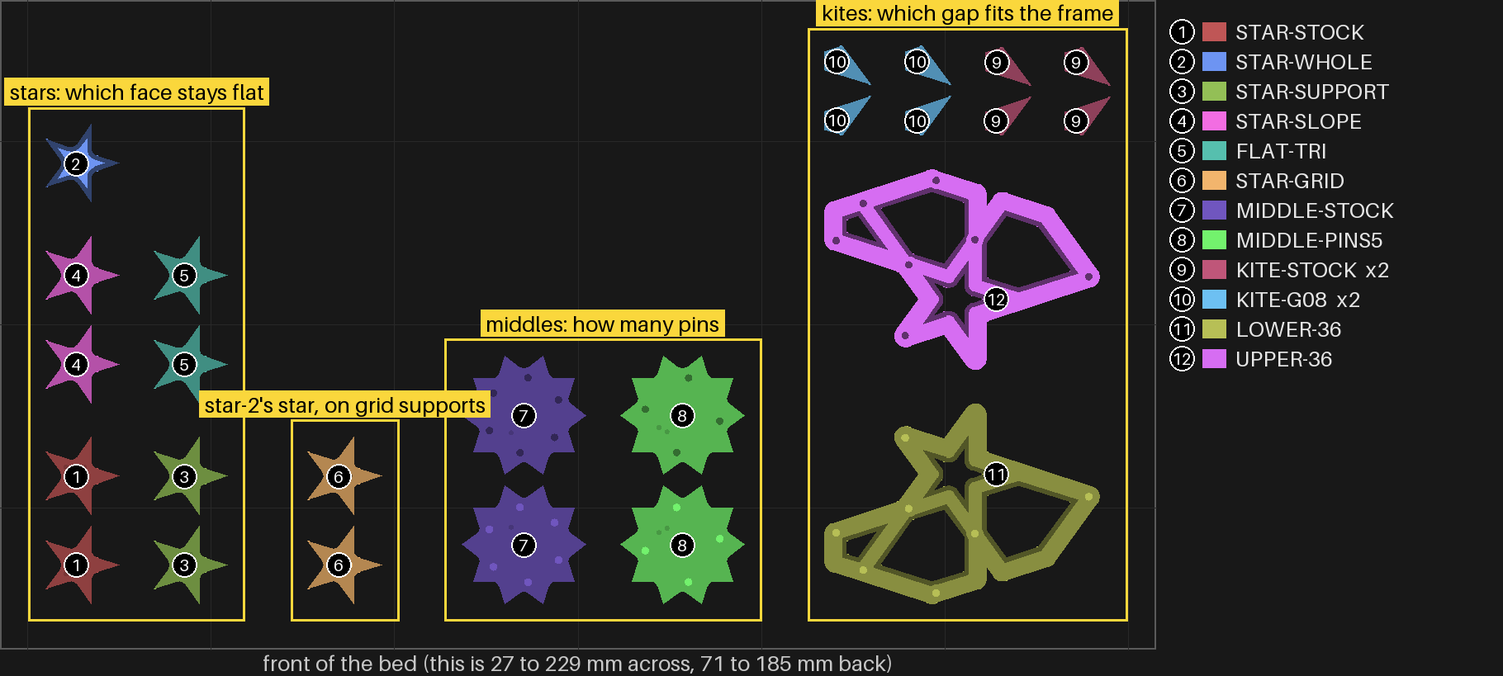
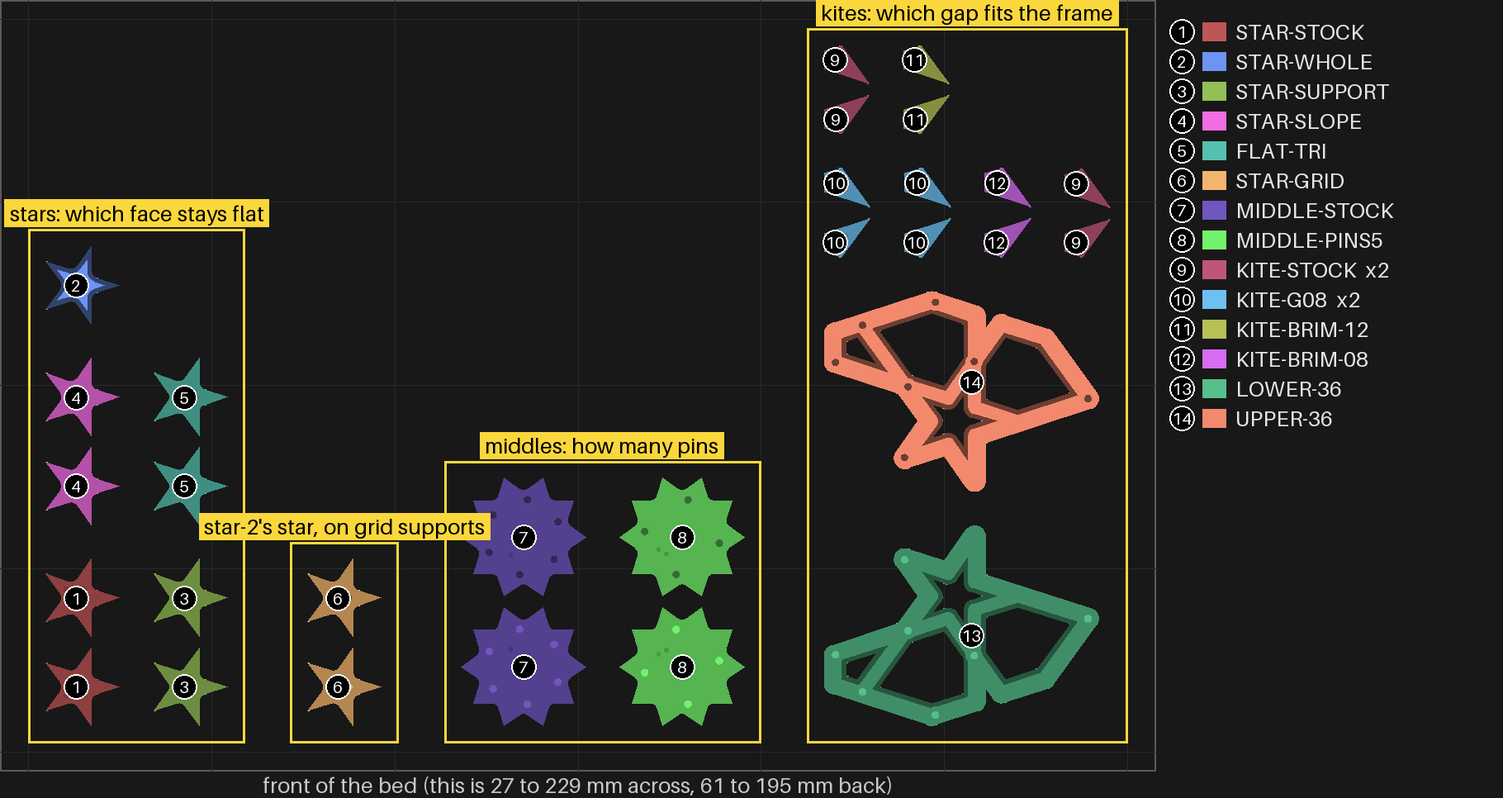
closeout-1 iteration 4: brim kites and a skirt round the whole plate (#897)
Omar asked "on small kite (10/11) can we try them with skirt and brim"
and picked brim kites with a skirt round the whole plate, one brim copy
of each gap.

- A plate recipe can now ask for a skirt (`skirt: { loops, distance }`).
  It is written into the process preset and drawn once round the whole
  plate; the preset read-back proves the slice carries it.
- Two new kites: KITE-BRIM-12 (gap 0.12, 1 dot on the bottom) and
  KITE-BRIM-08 (gap 0.08, 1 dot on the cut face and 1 on the bottom),
  each with a 2 mm brim, in the kites box.
- Sliced: 38 min 5 s, 7.57 g, 16 pieces, no warnings. The page has a new
  after-print row for the brim kites, and the iteration 3 yes is reset.

Claude-Session: https://claude.ai/code/session_01QQzzGV2CsqSYQs1WFuC7NE

Changed region(s): [[0.0, 0.0, 0.7692, 1.0], [0.7692, 0.0305, 0.9231, 0.5495]]

diff --git a/tools/bambu/src/commands/compose.ts b/tools/bambu/src/commands/compose.ts
@@ -41,7 +41,7 @@ import {
   hashFile,
   type WarningsSidecar,
 } from "../backends/warnings.js";
-import { prepareSlicePresets, enforceSliceCarriesPresets, buildStudioArgs, filamentCount } from "./slice.js";
+import { prepareSlicePresets, enforceSliceCarriesPresets, buildStudioArgs, filamentCount, type PlateSkirt } from "./slice.js";
 import { resolveSlicePlateType, studioSavedPlateType } from "../plate-type.js";
 import type { FlattenedPreset, SettingMismatch } from "../preset-chain.js";
 import { iterationId, type IterationKey } from "../iteration.js";
@@ -107,7 +107,27 @@ export interface PlateManifest {
   beds?: number; // the most beds the arrange may use (default 1); a spill past it is refused
   profile?: PlateProfile; // the ONE slice profile the plate is sliced under
   id_code?: string; // the plate's 1-3 character code, the first line of every piece's carved id (D-109)
+  // one skirt round the whole plate (slice.ts setSkirt); a skirt is plate-wide in Studio, never per piece
+  skirt?: PlateSkirt;
   items: ManifestItem[];
+}
+
+/** Check the manifest's `skirt:`: `loops` a whole number 1 to 5, `distance` mm from 1 to 10. PURE. */
+export function checkSkirt(raw: unknown): PlateSkirt {
+  if (!raw || typeof raw !== "object" || Array.isArray(raw)) {
+    throw new Error("`skirt:` must be a mapping: `loops:` (1 to 5) and, optionally, `distance:` (mm, 1 to 10)");
+  }
+  const s = raw as Record<string, unknown>;
+  for (const k of Object.keys(s)) {
+    if (k !== "loops" && k !== "distance") throw new Error(`\`skirt.${k}\` is not a skirt setting; it takes loops and distance`);
+  }
+  if (typeof s.loops !== "number" || !Number.isInteger(s.loops) || s.loops < 1 || s.loops > 5) {
+    throw new Error(`\`skirt.loops\` must be a whole number from 1 to 5, got ${JSON.stringify(s.loops)}`);
+  }
+  if (s.distance !== undefined && (typeof s.distance !== "number" || !(s.distance >= 1 && s.distance <= 10))) {
+    throw new Error(`\`skirt.distance\` must be mm from 1 to 10, got ${JSON.stringify(s.distance)}`);
+  }
+  return { loops: s.loops, ...(s.distance !== undefined ? { distance: s.distance as number } : {}) };
 }
 
 function isIterationItem(it: ManifestItem): it is ManifestItemIteration {
@@ -600,6 +620,7 @@ export function parseManifest(text: string): PlateManifest {
     beds: typeof m.beds === "number" ? m.beds : undefined,
     profile: (m.profile as PlateProfile) ?? undefined,
     ...(typeof m.id_code === "string" ? { id_code: m.id_code } : {}),
+    ...(m.skirt !== undefined ? { skirt: checkSkirt(m.skirt) } : {}),
     items: items as ManifestItem[],
   };
 }
@@ -1202,6 +1223,7 @@ async function runCompose(manifestPath: string, opts: ComposeOpts, raw: string[]
         mkdtempSync(join(tmpdir(), "bambu-presets-")),
         plate.type,
         manifest.profile?.color,
+        manifest.skirt,
       );
       settingsResolved = prepared.settings ?? settingsName;
       filamentResolved = prepared.filament ?? filamentName;

diff --git a/tools/bambu/src/commands/slice.ts b/tools/bambu/src/commands/slice.ts
@@ -136,6 +136,7 @@ export function prepareSlicePresets(
   scratchDir: string,
   plateType?: PlateType,
   filamentColor?: string | string[],
+  skirt?: PlateSkirt,
 ): PreparedPresets {
   const root = profilesRoot(studioBin);
   const lookup: PresetLookup = root ? studioPresetLookup(root) : () => null;
@@ -143,10 +144,13 @@ export function prepareSlicePresets(
   if (settings) {
     const flat = flattenPresetList(resolvePresetList(settings, "settings", studioBin), lookup, scratchDir);
     if (plateType) setPlateType(flat.presets, plateType, scratchDir);
+    if (skirt) setSkirt(flat.presets, skirt, scratchDir);
     out.settings = flat.list;
     out.presets.push(...flat.presets);
   } else if (plateType) {
     throw new Error("a plate type needs a process preset in -s/--settings to hold it.");
+  } else if (skirt) {
+    throw new Error("a skirt needs a process preset in -s/--settings to hold it.");
   }
   if (filament) {
     const flat = flattenPresetList(resolvePresetList(filament, "filament", studioBin), lookup, scratchDir);
@@ -175,6 +179,27 @@ export function setFilamentColor(presets: FlattenedPreset[], color: string | str
     p.config.filament_colour = [colors[i]!.toUpperCase()];
     writeFlattened(p, scratchDir);
   });
+}
+
+/** A skirt round the whole plate: `loops` lines `distance` mm out from the pieces, one layer high.
+ *  It never touches a piece, so it only primes the nozzle before the first piece starts. */
+export interface PlateSkirt {
+  loops: number; // 1 to 5
+  distance?: number; // mm from the nearest piece (default 2, Studio's own)
+}
+
+/** Write a whole-plate skirt into the one flattened process preset, like the plate type. Studio's stock
+ *  `skirt_per_object` is "1" (a skirt round each piece), so it is set to "0": one skirt round the plate.
+ *  The preset check after the slice proves the slice carries all three. Omar on closeout-1, 2026-11-05:
+ *  "on small kite (10/11) can we try them with skirt and brim", and he picked a whole-plate skirt. */
+export function setSkirt(presets: FlattenedPreset[], skirt: PlateSkirt, scratchDir: string): void {
+  const proc = presets.find((p) => p.type === "process");
+  if (!proc) throw new Error("a skirt needs a process preset in -s/--settings to hold it.");
+  proc.config.skirt_loops = String(skirt.loops);
+  proc.config.skirt_distance = String(skirt.distance ?? 2);
+  proc.config.skirt_height = "1";
+  proc.config.skirt_per_object = "0";
+  writeFlattened(proc, scratchDir);
 }
 
 /** Name the plate in the one flattened process preset and rewrite its file in place (same path, so

diff --git a/tools/bambu/src/plate-type.test.ts b/tools/bambu/src/plate-type.test.ts
@@ -14,7 +14,8 @@ import {
   resolveSlicePlateType,
   studioSavedPlateType,
 } from "./plate-type.js";
-import { setFilamentColor, setPlateType } from "./commands/slice.js";
+import { setFilamentColor, setPlateType, setSkirt } from "./commands/slice.js";
+import { checkSkirt } from "./commands/compose.js";
 import type { FlattenedPreset } from "./preset-chain.js";
 
 // The plate type is what sheets-04b got wrong (2026-10-03): sliced for Studio's CLI default, a Cool
@@ -166,6 +167,40 @@ describe("setPlateType", () => {
     expect(() => setPlateType([preset("machine")], textured, mkdtempSync(join(tmpdir(), "plate-type-")))).toThrow(
       /needs a process preset/,
     );
+  });
+});
+
+// A whole-plate skirt rides the same way (closeout-1, 2026-11-05). Studio's stock skirt_per_object is
+// "1", a skirt round every piece; the plate asked for one round the whole plate.
+describe("setSkirt", () => {
+  const preset = (type: string): FlattenedPreset => ({ leaf: `/p/${type}.json`, type, chain: [type], config: { name: type } });
+
+  it("writes one skirt round the whole plate into the process preset only, and onto its file", () => {
+    const dir = mkdtempSync(join(tmpdir(), "skirt-"));
+    const presets = [preset("machine"), preset("process"), preset("filament")];
+    setSkirt(presets, { loops: 2 }, dir);
+    expect(presets[1]!.config).toMatchObject({ skirt_loops: "2", skirt_distance: "2", skirt_height: "1", skirt_per_object: "0" });
+    expect(presets[0]!.config.skirt_loops).toBeUndefined();
+    expect(JSON.parse(readFileSync(join(dir, "process.json"), "utf8")).skirt_per_object).toBe("0");
+  });
+
+  it("refuses settings with no process preset to hold it", () => {
+    expect(() => setSkirt([preset("machine")], { loops: 1 }, mkdtempSync(join(tmpdir(), "skirt-")))).toThrow(/needs a process preset/);
+  });
+});
+
+describe("checkSkirt", () => {
+  it("takes loops 1 to 5 and a distance 1 to 10 mm", () => {
+    expect(checkSkirt({ loops: 2 })).toEqual({ loops: 2 });
+    expect(checkSkirt({ loops: 1, distance: 3 })).toEqual({ loops: 1, distance: 3 });
+  });
+
+  it("refuses no loops, too many, a stray key, or a distance out of range", () => {
+    expect(() => checkSkirt({ loops: 0 })).toThrow(/1 to 5/);
+    expect(() => checkSkirt({ loops: 6 })).toThrow(/1 to 5/);
+    expect(() => checkSkirt({ loops: 1, height: 2 })).toThrow(/not a skirt setting/);
+    expect(() => checkSkirt({ loops: 1, distance: 0.5 })).toThrow(/1 to 10/);
+    expect(() => checkSkirt("2")).toThrow(/must be a mapping/);
   });
 });
 

diff --git a/.claude/skills/maintain-use-cases/use-cases.md b/.claude/skills/maintain-use-cases/use-cases.md
@@ -2,7 +2,7 @@
 name: use-cases
 description: Actor / use-case map for the whole 3d-models experience, with hash-pinned code pointers validated by the pre-commit hook
 as_of:
-  3d-models: 5b628382ed6c496784e297e0adb208f60786b760
+  3d-models: 1aabf89d7010dcec0f63f735ec077b8a97594dc8
   bikar: 21420bc3ba9d9dd99ff186427f8c95f41d80f4f9
   qiyas: 74083326b6439e277ac7c57f0cfc28716b7ffbc2
   youtube: 7deb8abbf9e4196a4990a38961ddf08f816223a8
@@ -137,7 +137,7 @@ flowchart LR
 | UC30 | Tune a coaster's print knobs live in the Coaster Lab — size a rosette coaster for the printer in the room and watch all eight structural CV checks and the mesh gate re-run on every knob move, each verdict showing the number it measured against the strap floor (CAL-CST-01) it is held to, and take the STL only once every check is green. The coaster's knobs *are* its `.bkr` param block, so there is no page-side knob list to drift; a failing check reaches the page as the error the evaluator throws (`coaster … is not a valid part`), parsed into FAIL rows, not a silent skip. The hub stays the plate builder — this page configures and verifies one coaster and links back to it from the gallery. | Lab visitor, Print operator | `3d-models:index.html:L352 "coaster.html"` (the gallery's “Open in Coaster Lab” link — the hub's entry point to the vendored Lab page) · `3d-models:Makefile:L480 "LAB_PAGES ="` (vendors `coaster.html` beside the other lab pages via `lab-vendor`) · `3d-models:docs/site-graph.json:L139 "G.coaster"` (the vendored page node and its inbound edge from the gallery index) · `bikar:packages/lab/coaster.html` (the Coaster Lab page itself — a bikar `packages/lab` entry) · `bikar:packages/lab/src/coaster-main.ts` (its page controller, trimmed from `lego-main.ts`) |
 
 | UC31 | Look up what a print symptom means, and whether it is a concern for the part in front of you — an LLM-maintained troubleshooting wiki (the Karpathy LLM-wiki pattern: Raw Sources / Wiki / Schema, and Ingest / Query / Lint / Index & Log) whose entries each answer *what it means → is it a concern for THIS part → what to do*, grounded in our own slices and prints as proof rather than a bare claim. The wiki lives under `docs/`, so `docs_gate.py` lints every entry at commit; the skill Ingests a new gotcha when one is met and never changes a slicer setting or dispatches | Print operator, Designer | `3d-models:.claude/skills/print-wiki/SKILL.md:L1` (the skill — Query the front door, Ingest the back) · `3d-models:.claude/skills/print-wiki/template.md:L1` (the entry template every entry is filled from) · `3d-models:docs/wiki/index.md:L1` (the wiki index — one row per symptom) · `3d-models:docs/wiki/log.md:L1` (the append-only maintenance log, Karpathy op 4) · `3d-models:docs/wiki/troubleshooting/floating-regions-warning.md:L1` (a seed entry — the by-design overhang warning) · `3d-models:docs/wiki/troubleshooting/print-send-warnings-gate.md:L1` (a seed entry — why the fail-closed send gate refuses) · `3d-models:.claude/gates/docs_gate.py:L1` (the gate that lints every wiki entry, since it lives under docs/) |
-| UC32 | Judge a coaster's edge and top in the hand before printing it at full size — a sampler sheet stands 30 mm windows, cut from each coaster at its own 90 mm scale, on one labeled card, so a sample is the real edge and not a shrunk copy; `bambu slice sheet` renders each window through bikar's `--window` cut with the mesh gate, takes a vendored sample only when its sha256 still matches the sheet file, places every cell at its labeled spot and slices the plate locally; a minis plate (`bambu slice compose`) does the same for whole small coasters, mating styles as pairs; the send stays owner-gated | Designer, Print operator | `3d-models:tools/bambu/src/commands/sheet.ts:L332 "async function runSheet("` (the `slice sheet` verb) · `3d-models:tools/bambu/src/commands/sheet.ts:L73 "function parseVendored("` (a vendored sample is a file plus its hash, refused when the hash moved) · `3d-models:tools/bambu/src/commands/sheet.test.ts:L1` (tests, hash refusal included) · `3d-models:tools/bambu/src/commands/compose.ts:L1018 "async function runCompose("` (the `slice compose` verb for minis plates) · `bikar:packages/core/src/kernel3d/coaster-window.ts:L132 "export function cutWindow("` (the window cut) · `bikar:patterns/Coupons/Sampler-Cards.bkr:L79 "piece Sheet1Card"` (the labeled card) · `3d-models:docs/design/plates/sheets-01.yaml:L1` (sheet 1, the deliverable) · `3d-models:docs/design/plates/sheets-02.yaml:L1` (sheet 2, star points, rounded by each coaster's `tip` knob) · `3d-models:src/Samplers/sheets-01-row-a/README.md:L1` (row A's vendored windows and how to rebuild them byte for byte) · `3d-models:docs/design/coaster/sampler-sheets-design.md:L1` (design doc) · `3d-models:.claude/skills/print-coaster-samples/SKILL.md:L1` (the minis-plate skill) · `3d-models:.claude/gates/plates_gate.py:L2367 "def main("` (the plates gate and the print queue it writes) |
+| UC32 | Judge a coaster's edge and top in the hand before printing it at full size — a sampler sheet stands 30 mm windows, cut from each coaster at its own 90 mm scale, on one labeled card, so a sample is the real edge and not a shrunk copy; `bambu slice sheet` renders each window through bikar's `--window` cut with the mesh gate, takes a vendored sample only when its sha256 still matches the sheet file, places every cell at its labeled spot and slices the plate locally; a minis plate (`bambu slice compose`) does the same for whole small coasters, mating styles as pairs; the send stays owner-gated | Designer, Print operator | `3d-models:tools/bambu/src/commands/sheet.ts:L332 "async function runSheet("` (the `slice sheet` verb) · `3d-models:tools/bambu/src/commands/sheet.ts:L73 "function parseVendored("` (a vendored sample is a file plus its hash, refused when the hash moved) · `3d-models:tools/bambu/src/commands/sheet.test.ts:L1` (tests, hash refusal included) · `3d-models:tools/bambu/src/commands/compose.ts:L1039 "async function runCompose("` (the `slice compose` verb for minis plates) · `bikar:packages/core/src/kernel3d/coaster-window.ts:L132 "export function cutWindow("` (the window cut) · `bikar:patterns/Coupons/Sampler-Cards.bkr:L79 "piece Sheet1Card"` (the labeled card) · `3d-models:docs/design/plates/sheets-01.yaml:L1` (sheet 1, the deliverable) · `3d-models:docs/design/plates/sheets-02.yaml:L1` (sheet 2, star points, rounded by each coaster's `tip` knob) · `3d-models:src/Samplers/sheets-01-row-a/README.md:L1` (row A's vendored windows and how to rebuild them byte for byte) · `3d-models:docs/design/coaster/sampler-sheets-design.md:L1` (design doc) · `3d-models:.claude/skills/print-coaster-samples/SKILL.md:L1` (the minis-plate skill) · `3d-models:.claude/gates/plates_gate.py:L2367 "def main("` (the plates gate and the print queue it writes) |
 | UC33 | Know what an order takes before printing it — `bambu order plan <order.yaml>` counts the order's pieces by color and writes one plate recipe per color through the same writer as `bambu plates by-color <pieces.bkr>`, slices each plate (`--slice`), and reports each plate's beds, sliced minutes corrected by the real-to-sliced ratio of past timed prints of that filament, grams from the slice, and the order's total; it checks its own plan and never sends. `bambu plates by-color --costs` sets three ways to print one colored coaster side by side (one plate per color, the whole set once per color, one plate swapping colors) with each plate's slice picture, minutes, grams and filament dollars, the swaps labeled as an estimate. `make validate-orders` runs the unit tests and the fixture orders: each is planned from frozen real slices against its expected plan, and a wrong plan must be refused for the reason the fixture names | Print operator | `3d-models:tools/bambu/src/commands/order.ts:L71 "async function runPlan("` (the `order plan` verb) · `3d-models:tools/bambu/src/commands/plates.ts:L97 "async function runByColor("` (the `plates by-color` verb, one recipe per color) · `3d-models:tools/bambu/src/commands/plates.ts:L161 "async function runCosts("` (its `--costs` view) · `3d-models:tools/bambu/src/by-color-costs.ts:L158 "export function costRoutes("` (the three ways, from slices and the swap estimate) · `3d-models:tools/bambu/src/by-color-page.ts:L91 "export function costsPage("` (the page) · `3d-models:tools/bambu/src/by-color-costs.test.ts:L1` (tests, against a real gBV slice) · `3d-models:tools/bambu/src/order.ts:L310 "export function planOrder("` (the planner) · `3d-models:tools/bambu/src/order.ts:L352 "export function checkPlan("` (the self-check every plan and every fixture's wrong plan goes through) · `3d-models:tools/bambu/src/commands/order.ts:L130 "function runTimed("` (the timed prints the minutes are corrected by) · `3d-models:tools/bambu/src/commands/order.ts:L161 "async function runFixtures("` (the regression suite) · `3d-models:tools/bambu/test/fixtures/orders/slices.json:L1` (the frozen slices the fixtures plan from) · `3d-models:Makefile:L979 "validate-orders:"` (the make target) · `3d-models:docs/design/coaster/order-driven-lab-design.md:L1` (design doc) |
 | UC34 | See which reconstructions finished in youtube and are not yet coasters here, without reading two repos by hand — `python3 tools/reconstruction_intake.py --list` (also `make intake`) names every rung whose own `rung.yaml` at youtube main says done, PASS or an accepted PARTIAL, fresh, with its construction digest matching, and that has no `.bkr`, no coaster STL and no "no piece by design" row in the ledger; the same line prints at session start. `--write` moves the ledger's youtube pin to that tip, stubs the rows nobody typed and refreshes every row's youtube cell, and refuses on master; a second run changes nothing. The ledger gate reads the same rungs and fails a row that says done while its rung says otherwise (D-122) | Coaster designer | `3d-models:tools/reconstruction_intake.py:L82 "def completed("` (what completed means) · `3d-models:tools/reconstruction_intake.py:L211 "def apply_write("` (the write) · `3d-models:tools/reconstruction_intake.py:L260 "def session_lines("` (the session line) · `3d-models:.claude/gates/constructions_ledger.py:L368 "def read_rungs("` (the one youtube reader) · `3d-models:.claude/gates/constructions_ledger.py:L49 "L4"` (the done-versus-rung rule) · `3d-models:.claude/settings.json:L21 "reconstruction_intake.py"` (the SessionStart hook line) · `3d-models:Makefile:L1085 "intake:"` (the make target) · `3d-models:docs/constructions/reconstruction-intake-design.md:L1` (design doc) |
 

diff --git a/docs/design/plates/closeout-1.md b/docs/design/plates/closeout-1.md
@@ -1,7 +1,7 @@
 ---
 plate: closeout-1
 recipe: closeout-1.yaml
-iteration: 3
+iteration: 4
 stage: proposed
 times_printed: 0
 runs: []
@@ -11,8 +11,8 @@ maturity: experiment
 bets: []
 unblocks:
   - "the flange coaster's star, middle and kites settled, so the next whole coaster is printed from decided pieces"
-minutes: 36
-grams: 7
+minutes: 38
+grams: 8
 bed_plates: 1
 risk: ok
 pictures:
@@ -21,7 +21,7 @@ pictures:
 
 # closeout-1 — one plate to close the flange coaster's open questions
 
-![closeout-1 on the bed from above: four groups of pieces, each in its own box (stars, star-2's grid star, middles, and kites with a slice of the frame), numbered 1 to 12, with the list of pieces beside the bed](closeout-1-media/bed.png)
+![closeout-1 on the bed from above: four groups of pieces, each in its own box (stars, star-2's grid star, middles, and kites with a slice of the frame), numbered 1 to 14, two of the kites with a brim round them and a skirt round the whole plate, with the list of pieces beside the bed](closeout-1-media/bed.png)
 
 **In short.** You no longer have split-10's or star-3's pieces, and asked on 2026-11-05: "can
 we print a combo plate to close out all decisions we need?" The which-questions page that day
@@ -29,7 +29,9 @@ sorted the 24 open questions. 18 had been overtaken by later plates, the hexagon
 settled by hexfit-2, and what is left comes down to four questions that need pieces in the
 hand. This plate prints exactly those pieces, each as it printed before, with the same dots, so
 every answer reads straight back onto the plate it came from. It adds one thing: a slice of the
-coaster frame, so the kites can be tried without split-07's frame, and star-2's grid star, which you picked to judge the star faces against. 14 pieces, 36 minutes, 7 g.
+coaster frame, so the kites can be tried without split-07's frame, and star-2's grid star, which you picked to judge the star faces against. And it tries a brim on two of the small
+kites, with a skirt round the whole plate, which you asked for on 2026-11-05. 16 pieces, 38
+minutes, about 8 g.
 The plate is [`closeout-1.yaml`](closeout-1.yaml).
 
 **What it replaces.** These questions close here, and their old pieces need not be found:
@@ -57,7 +59,16 @@ Left open elsewhere, and why they are not here:
 | Does the flat star hold on three pins | FLAT-TRI (halves with no dots, three pin holes on a triangle) | 0.26 |
 | How many pins the middle takes | MIDDLE-STOCK (1 dot: the centre pin and six round it), MIDDLE-PINS5 (2 dots: the centre and four) | 2.52 |
 | Which kite gap fits the frame | KITE-STOCK ×2 (no dots, 0.12 mm a face), KITE-G08 ×2 (1 dot, 0.08 mm), in a frame slice LOWER-36 and UPPER-36 | 2.65 + 0.44 |
-| **The plate** | 14 pieces | **7.19** |
+| Does a brim help the small kites | KITE-BRIM-12 (1 dot on the bottom, 0.12 mm a face, like KITE-STOCK), KITE-BRIM-08 (1 dot on the cut face and 1 on the bottom, 0.08 mm, like KITE-G08), each with a 2 mm brim | 0.26 |
+| Does a skirt help the first pieces start clean | a skirt of 2 lines round the whole plate, not a piece | 0.12 (with the travel between pieces) |
+| **The plate** | 16 pieces | **7.57** |
+
+The brim kites are here because you asked, on 2026-11-05, "on small kite (10/11) can we try them
+with skirt and brim", and picked brim kites with a skirt round the whole plate, one brim copy of
+each gap. Each brim kite is the plain kite of the same gap in everything but the brim and its
+bottom dot, so the two can be laid side by side. The brims are 2 mm wide, so the two never meet
+in the kites box, where pieces sit 6 mm apart. The skirt is drawn first, before any piece, so the
+nozzle is flowing cleanly by the time it reaches the first one.
 
 STAR-GRID is here because you asked, on 2026-11-05, "do we have stars with skirts in this?", and
 then picked adding star-2's grid star. It is the star-2 pick, so the other four are judged against
@@ -79,7 +90,9 @@ more dots on a cut face with three pins), and it is the only star with support m
 carved id, because bikar cannot fit one: a one-letter id needs 3.1 by 3.5 mm of flat face with
 0.8 mm to every edge, and no star or kite half has it. The pieces with no dots are each the only
 one of their kind here: STAR-WHOLE is the only whole star, FLAT-TRI the only star in halves with
-no dots, KITE-STOCK the only kite with none. The frame slice's two halves are the only pieces of
+no dots, KITE-STOCK the only kite with none. The two brim kites are told apart by a dot on the bottom
+face, the one on the table: KITE-BRIM-12 has only that, KITE-BRIM-08 has it plus one on the cut
+face. Trim the brim off first; the bottom dot may be hard to see until it is gone. The frame slice's two halves are the only pieces of
 their shape. **Keep each piece's two halves together** when you take them off the bed.
 
 ## After the print
@@ -90,6 +103,7 @@ their shape. **Keep each piece's two halves together** when you take them off th
 | FLAT-TRI (halves, no dots), against STAR-STOCK (3 dots) | **Do:** 1. Press FLAT-TRI's two halves together on its three pins. 2. Hold it by its edges and try to twist the halves against each other. 3. Do the same with STAR-STOCK, which has one pin. 4. Turn FLAT-TRI over and look at its bottom, its five tips and the step under each half. **Look for:** halves that close flat and do not turn, where STAR-STOCK can turn round its one pin; and a bottom as clean as STAR-STOCK's. | It holds and does not turn, like star-2's stars on the same 1.2 mm pins; its bottom is as clean, since only the pins changed and they sit inside the halves. Worth deciding only if a flat star wins the row above. | Holds, as clean: the flat star takes the triangle of pins. Too tight to close, or a pin snapped: its pins need a wider gap. Still turns: the triangle is too small, and a wider one is the next plate. Bottom worse: the pins changed how the step prints, and the next plate looks at that. |
 | MIDDLE-STOCK (1 dot), MIDDLE-PINS5 (2 dots) | **Do:** 1. Close each middle piece's halves on their pins. 2. Lay each flat and press each end. 3. Pull the halves apart and twist them. **Look for:** halves that close flat and hold without rocking. MIDDLE-STOCK has a centre pin and six round it, MIDDLE-PINS5 a centre pin and four. | Both close and hold: each pin keeps the room the rule asks for to the edge, and the ring is even, so no side is left without a pin as split-07's three uneven pins left it. | Both hold: middles take four round the centre, fewer holes to print. Only six holds: middles take six. Neither holds: the pins need another fit, and your note says which way. |
 | KITE-STOCK (no dots) ×2, KITE-G08 (1 dot) ×2, in LOWER-36 and UPPER-36 | **Do:** 1. Lay the frame slice's lower half flat, face down. 2. Put one kite in the small kite pocket at its edge. 3. Close the upper half over it and shake it gently. 4. Take the kite out and do the same with each of the other three. **Look for:** which kites go in without forcing and do not rattle. Both copies should agree. | KITE-G08 snug but may need a push; KITE-STOCK loose, as split-07's were. | 0.08 snug and goes in: kites go to gap 0.08. 0.08 still rattles: the next plate tries below 0.08. 0.08 binds: the next plate tries between 0.08 and 0.12. |
+| KITE-BRIM-12 (1 dot on the bottom), KITE-BRIM-08 (1 dot on the cut face, 1 on the bottom), against KITE-STOCK (no dots) and KITE-G08 (1 dot on the cut face) | **Do:** 1. Peel or trim the brim off each brim kite. 2. Lay KITE-BRIM-12 beside a KITE-STOCK, and KITE-BRIM-08 beside a KITE-G08, bottom up. 3. Look at each pair's bottom edge and corners. 4. Put each brim kite in the frame slice's kite pocket as in the row above. 5. Look at the first pieces the nozzle printed after the skirt. **Look for:** a brim kite whose bottom edge is straighter and whose corners are sharper than its plain twin, with no lip left from the brim, and whether it still fits the pocket like its twin. | The brim kites' corners a little sharper, since the brim holds the first layer down at the tips; a small lip where the brim was, which may need a blade. The skirt shows no difference you can see. | Brim cleaner and still fits: small kites print with a brim. No difference: no brim, it only adds trimming. Brim worse, or hard to trim, or the lip stops it fitting: no brim. |
 
 ## Pictures
 
@@ -98,8 +112,9 @@ plate by `tools/print_review.py bed --zoom --key`.
 
 ## Cost and risk
 
-**About 36 minutes and 7 g of PLA** (the slice: 36 min 7 s, 7.19 g). One bed, one color, no
-prime tower, no brim. STAR-SUPPORT and STAR-GRID print on supports, as they did on split-10 and
+**About 38 minutes and 8 g of PLA** (the slice: 38 min 5 s, 7.57 g). One bed, one color, no
+prime tower. A skirt of 2 lines runs round the whole plate, and the two brim kites each have a
+2 mm brim; no other piece has one. STAR-SUPPORT and STAR-GRID print on supports, as they did on split-10 and
 star-2; their supports come off by hand.
 
 **Risk: ok.** Small flat pieces, all printed before on split-10 and split-07 at these settings;
@@ -127,3 +142,5 @@ Every yes or hold Omar gives this plate, one row each, oldest first (D-096). A t
 | 2026-11-05 | sliced: 34 min, 6.81 g, 13 pieces, no warnings, for the Textured PEI plate | this page |
 | 2026-11-05 | changed: Omar asked "do we have stars with skirts in this?" and picked adding star-2's grid star; iteration 3 | this page, [`closeout-1.yaml`](closeout-1.yaml) |
 | 2026-11-05 | sliced: 36 min, 7.19 g, 14 pieces, no warnings, for the Textured PEI plate | this page |
+| 2026-11-05 | changed: Omar asked "on small kite (10/11) can we try them with skirt and brim" and picked brim kites with a skirt round the whole plate, one brim copy of each gap; iteration 4, the iteration 3 yes no longer covers it | this page, [`closeout-1.yaml`](closeout-1.yaml) |
+| 2026-11-05 | sliced: 38 min, 7.57 g, 16 pieces, no warnings, for the Textured PEI plate | this page |

diff --git a/docs/design/plates/README.md b/docs/design/plates/README.md
@@ -22,8 +22,8 @@ Written by `python3 .claude/gates/plates_gate.py --write` from the plate pages a
 |---|---|---|---|---|---|---|---|
 | 1 | [sheets-04g-fit3](sheets-04g-fit3.md) | proposed | 10 | 1.4 | 7.37 | watch | Does the 0.025 mm middle piece win again beside its two controls in a fresh coaster, and does a 0.075 mm kite go in easier than the 0.05 one and still stay in? |
 | 2 | [theme-night-sky-11600](theme-night-sky-11600.md) | waiting | 1 | 0.2 | 6.39 | ok | Night sky, one of its 4 plates: do its Kite ×10 come out as the theme draws them, in PLA Matte Marine Blue (11600)? |
-| 3 | [closeout-1](closeout-1.md) | proposed | 4 | 0.7 | 5.97 | ok | One small plate for every flange-coaster question still open: which star face stays flat (against star-2's grid star), how many pins the middle takes, which kite gap fits the frame, and whether the flat star holds on star-2's pins. |
-| 4 | [stud-1](stud-1.md) | waiting | 6 | 1.0 | 5.75 | ok | How far apart should a split coaster's studs be: does a slice of split-01's lip coaster hold together and line up with its studs 25, 15 or 10 mm apart? |
+| 3 | [stud-1](stud-1.md) | waiting | 6 | 1.0 | 5.75 | ok | How far apart should a split coaster's studs be: does a slice of split-01's lip coaster hold together and line up with its studs 25, 15 or 10 mm apart? |
+| 4 | [closeout-1](closeout-1.md) | proposed | 4 | 0.7 | 5.61 | ok | One small plate for every flange-coaster question still open: which star face stays flat (against star-2's grid star), how many pins the middle takes, which kite gap fits the frame, and whether the flat star holds on star-2's pins. |
 | 5 | [theme-iznik-tile-10205](theme-iznik-tile-10205.md) | waiting | 1 | 0.3 | 3.92 | ok | Iznik tile, one of its 4 plates: do its Middle ×1, Star ×10 come out as the theme draws them, in PLA Basic Maroon Red (10205)? |
 | 6 | [theme-night-sky-13402](theme-night-sky-13402.md) | waiting | 1 | 0.3 | 3.92 | ok | Night sky, one of its 4 plates: do its Middle ×1, Star ×10 come out as the theme draws them, in PLA Sparkle Classic Gold Sparkle (13402)? |
 | 7 | [theme-terracotta-souk-10401](theme-terracotta-souk-10401.md) | waiting | 1 | 0.3 | 3.92 | ok | Terracotta souk, one of its 4 plates: do its Middle ×1, Star ×10 come out as the theme draws them, in PLA Basic Gold (10401)? |

diff --git a/docs/design/coaster/order-driven-lab-design.md b/docs/design/coaster/order-driven-lab-design.md
@@ -1408,5 +1408,5 @@ The facts above, pinned to the lines that hold them.
 - The X2D has not been seen to report grams used (unconfirmed): `3d-models:tools/bambu/src/actuals.ts:L46 "[X2D-UNCONFIRMED] consumed grams"`.
 - A spool with no tag reports no percent: `3d-models:tools/bambu/src/commands/filament.ts:L51 "remain unknown (no RFID)"`.
 - A slice that wrote no grams has them worked out with an attributed PLA density: `3d-models:tools/bambu/src/slice-numbers.ts:L14 "DEFAULT_PLA_DENSITY = 1.24"`.
-- The X2D bed is 256 × 256 mm: `3d-models:tools/bambu/src/commands/compose.ts:L658 "X2D single-nozzle build area 256×256 mm"`.
+- The X2D bed is 256 × 256 mm: `3d-models:tools/bambu/src/commands/compose.ts:L679 "X2D single-nozzle build area 256×256 mm"`.
 - The hub's next step is estimates (private repo, read 2026-10-04): its README, "Next: estimates (P1's third surface)".

diff --git a/docs/design/coaster/print-time-color-map-design.md b/docs/design/coaster/print-time-color-map-design.md
@@ -329,7 +329,7 @@ per-color plate. The changes, which are task #244:
 3. **The send refuses a one-color plate with no color named.** Before call 18, a plate sent with
    no `--color` printed in the slice's own color, Studio's default green, which is the
    preset's color set by `setFilamentColor`
-   (`3d-models:tools/bambu/src/commands/slice.ts:L166 "export function setFilamentColor("`). Under
+   (`3d-models:tools/bambu/src/commands/slice.ts:L170 "export function setFilamentColor("`). Under
    "always at the send", printing green because nobody named a color is a silent default. So
    `print send` refuses a one-color plate whose recipe has no color unless `--color` or
    `--ams-mapping` is given, dry run too
